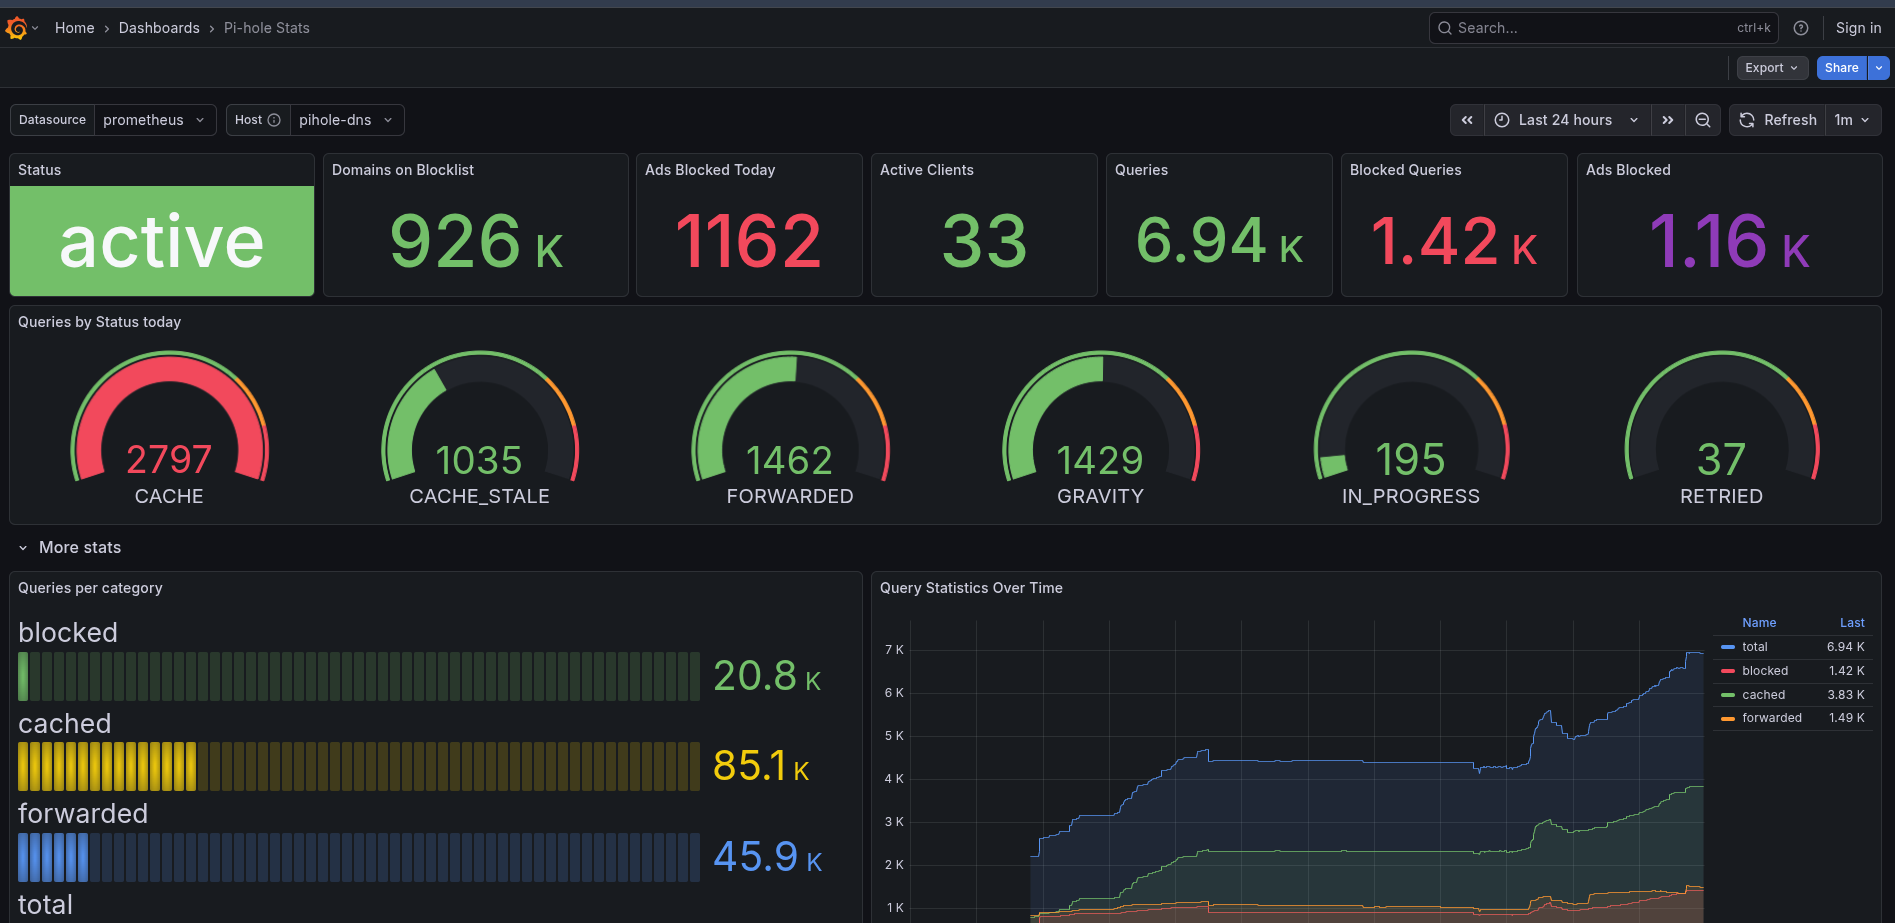
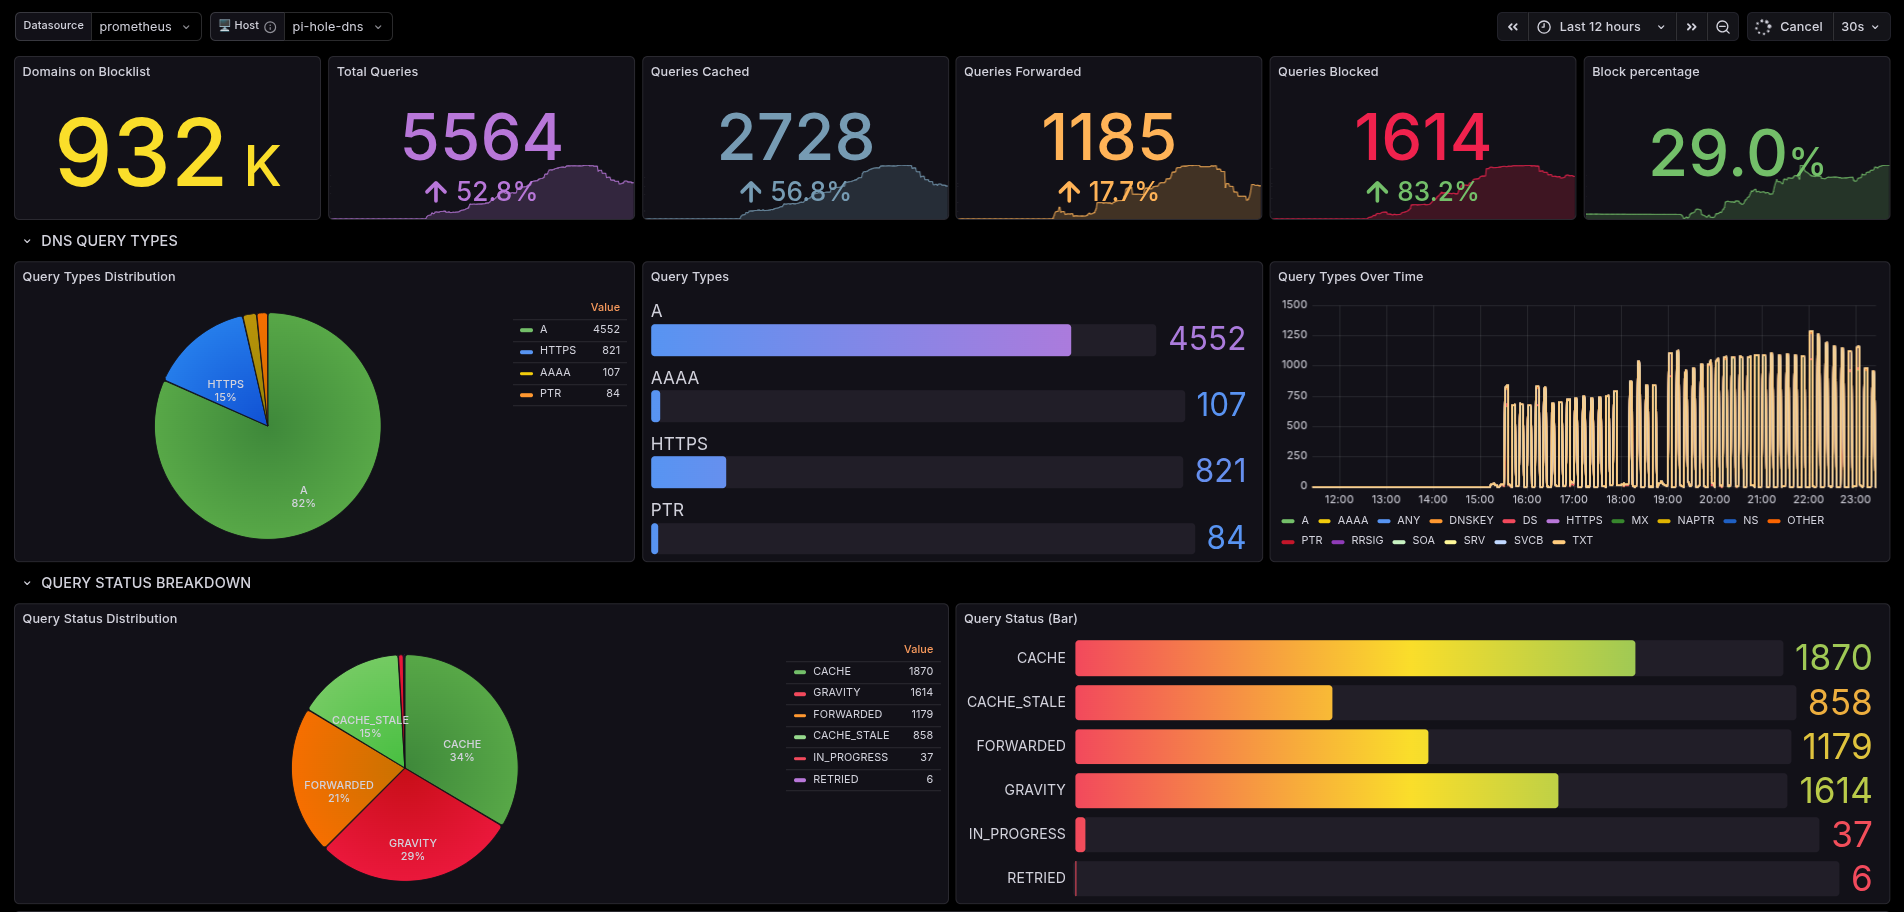
update shots

diff --git a/README.md b/README.md
@@ -38,7 +38,7 @@ I also integrated system monitoring alongside Pi-hole statistics. Now I can easi
 
 ##  Dashboard Insights
 
-### 1. [Pi-hole DNS Performance](https://serverdashboard.qzz.io/d/edknpuskjzw1sc/)
+### 1. [Pi-hole DNS Performance](https://serverdashboard.qzz.io/d/pihole-metrics/pihole-dns-adblock?kiosk&refresh=30s)
 Real-time monitoring of DNS traffic and filtering efficiency. Key metrics tracked include:
 - **Network Summary:** Total Queries, Active Clients and Domains on Blocklist.
 - **Filtering Impact:** Tracking of Blocked Queries and total Ads Blocked.
@@ -51,7 +51,7 @@ Real-time monitoring of DNS traffic and filtering efficiency. Key metrics tracke
   </a>
 </blockquote>
 
-### 2. [System Health](https://serverdashboard.qzz.io/d/rYdddlPWk/)
+### 2. [System Health](https://serverdashboard.qzz.io/d/system-stats/full-system-stats?kiosk=true&refresh=30s)
 Keeps track of the server's resources to prevent issues:
 - **CPU Load:** Breakdown of System vs. User load.
 - **Memory Usage:** RAM usage and swap tracking.
